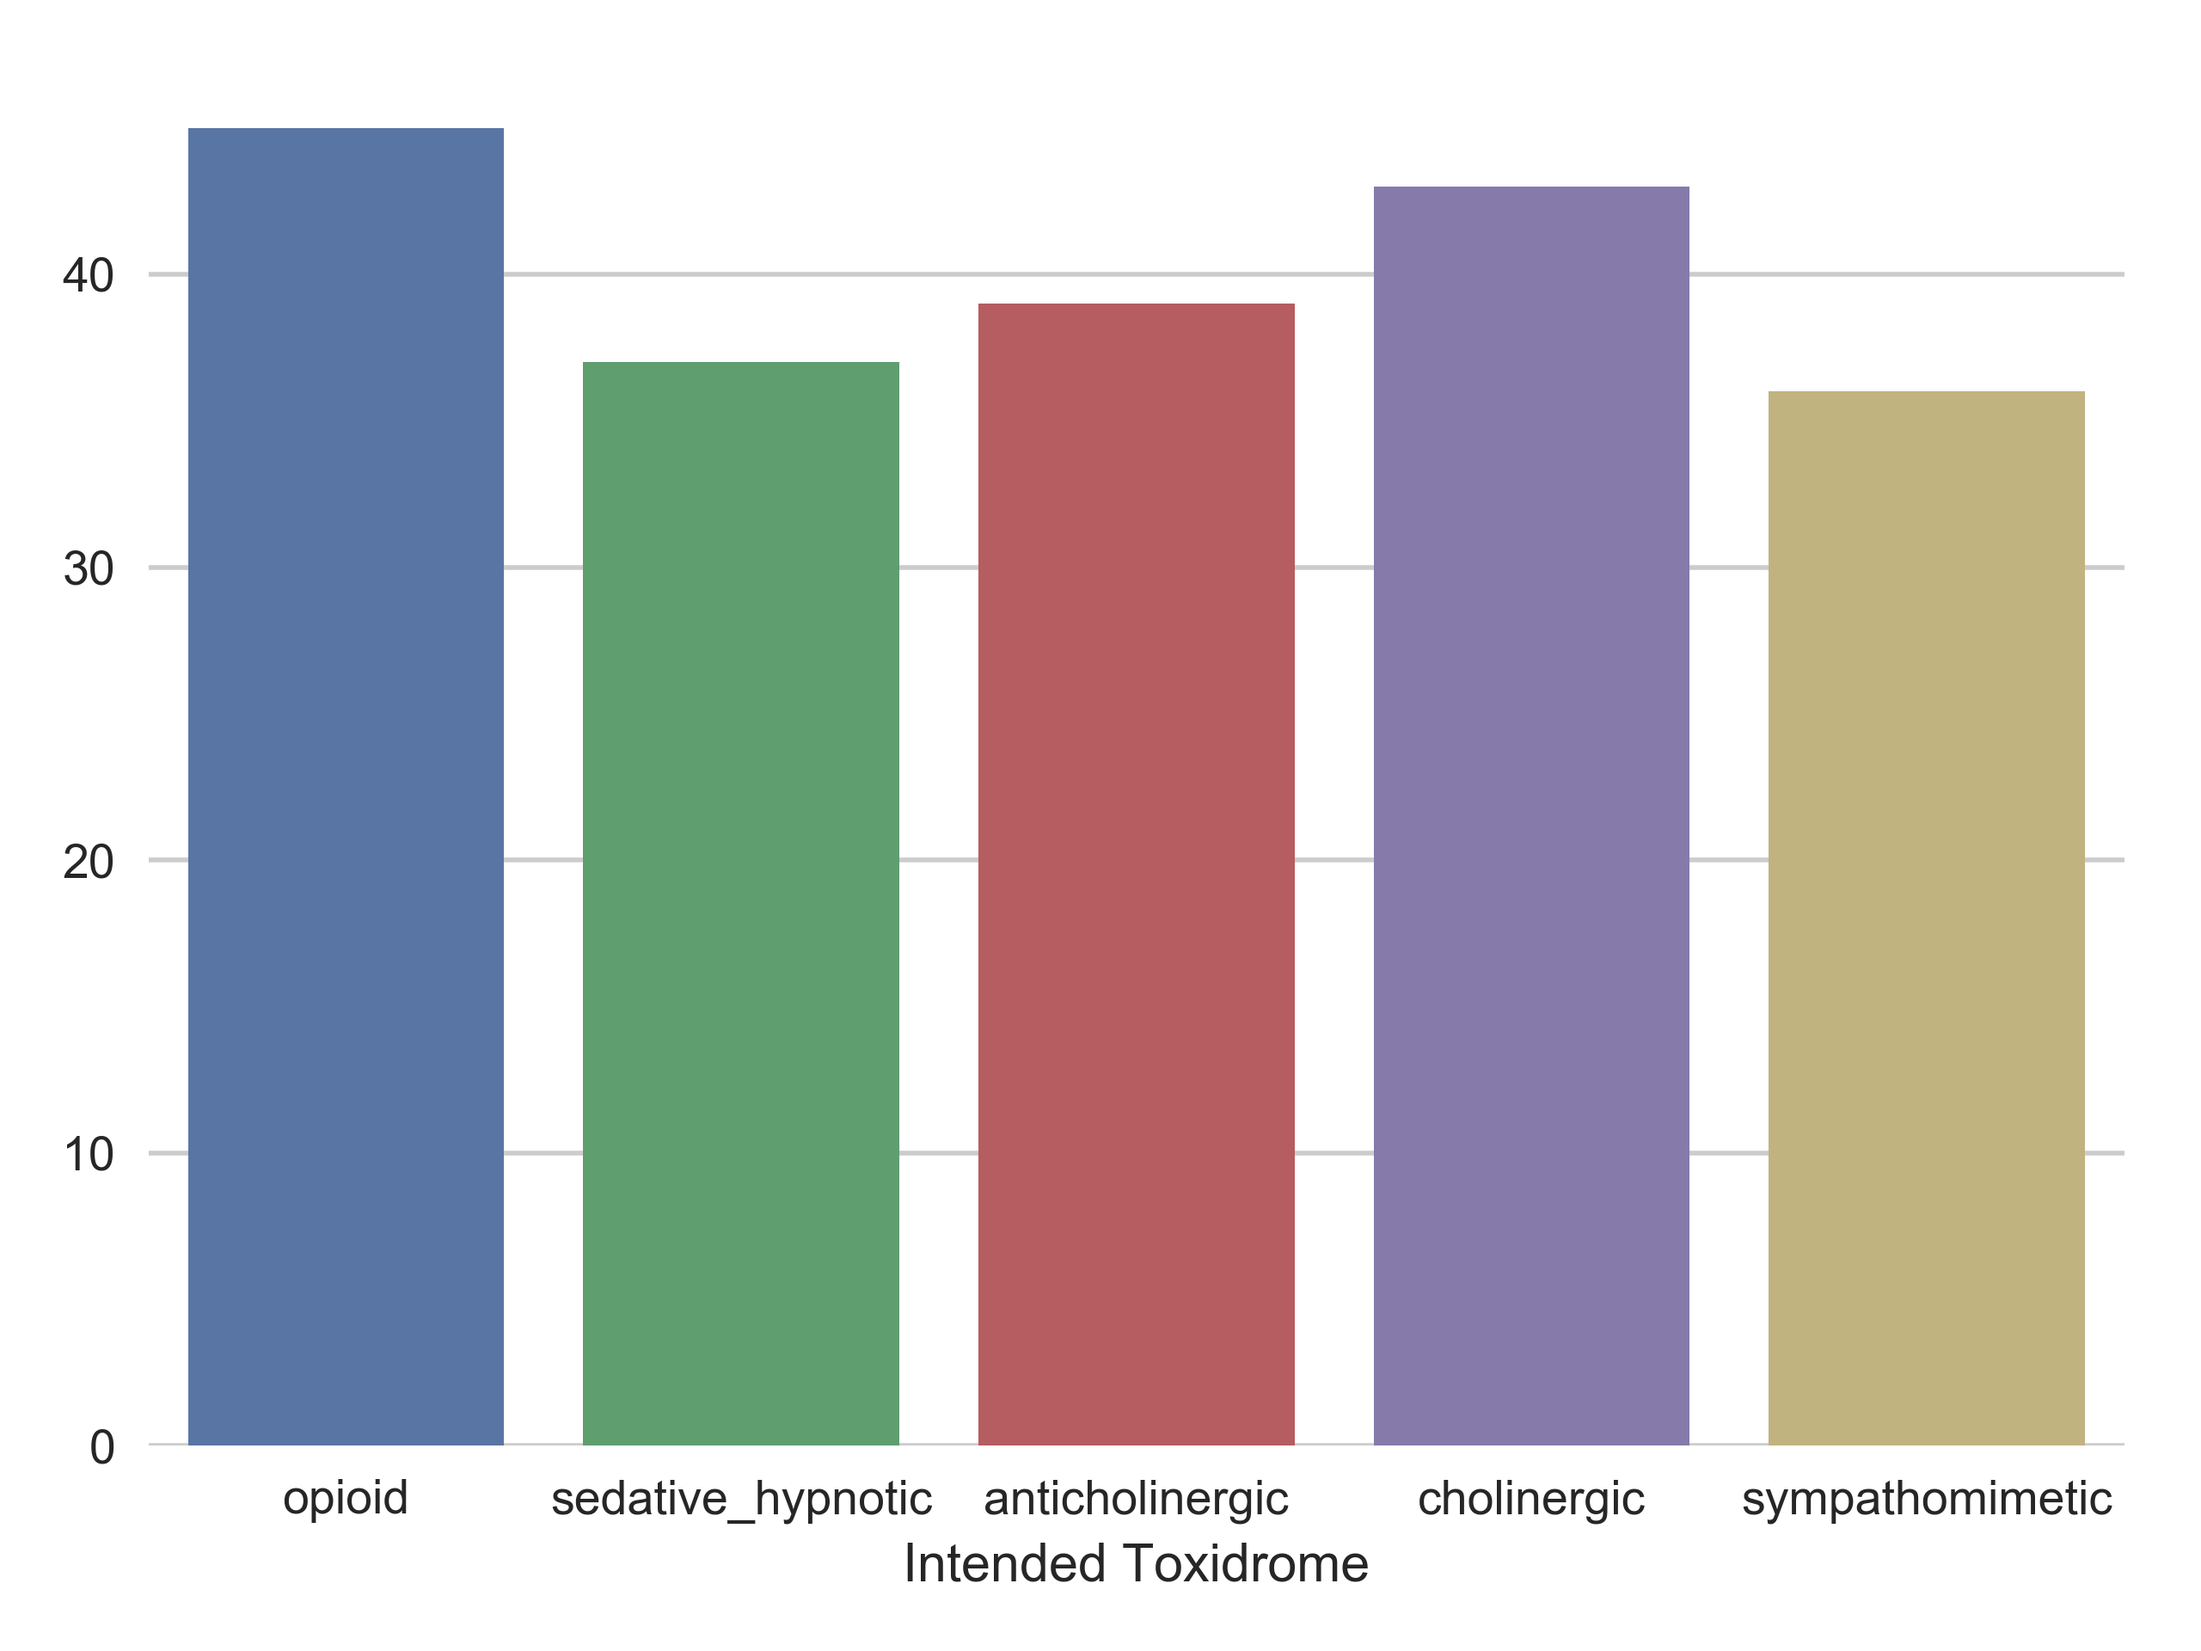
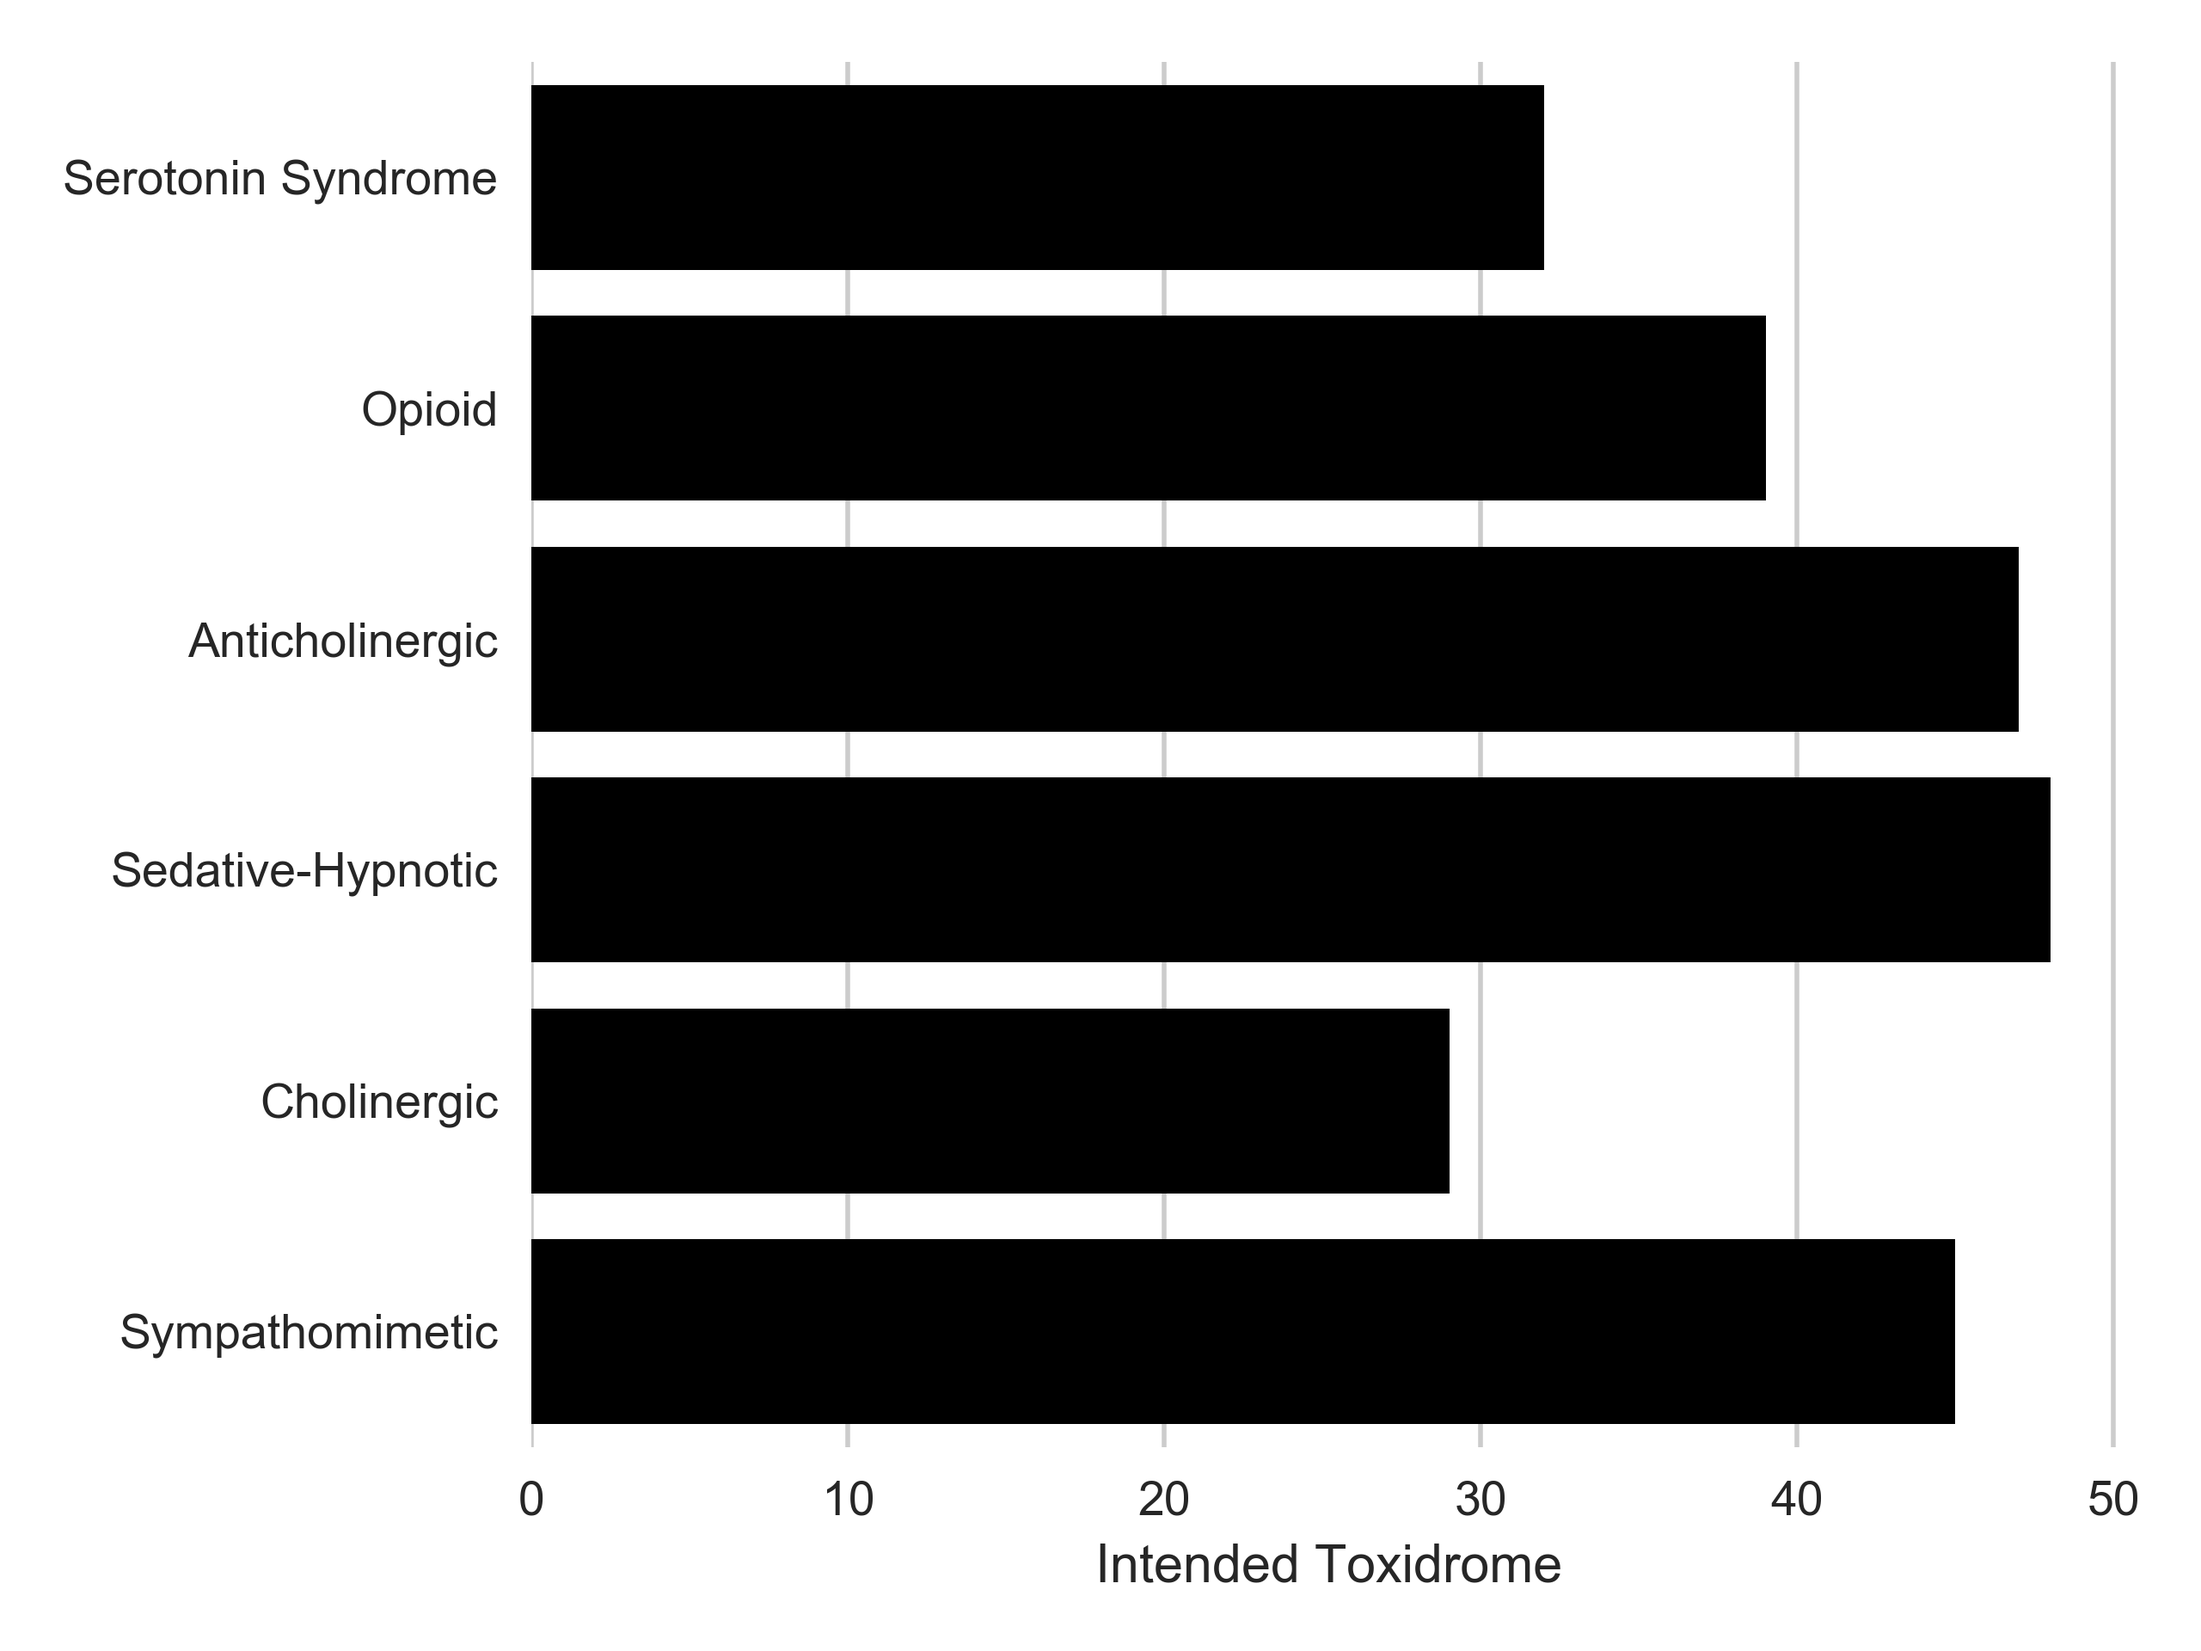
Update Graphics
Removed color.
Changed from horizontal to vertical.

diff --git a/plot-distribution-of-cases.py b/plot-distribution-of-cases.py
@@ -10,21 +10,22 @@ sns.set(style="whitegrid")
 fig = plt.figure()
 ax = fig.add_subplot(111)
 
-sns.countplot(x="intended_toxidrome", data=df)
+sns.countplot(y="intended_toxidrome", data=df, color='k')
 sns.despine(left=True, bottom=True)
 
 ax.set_ylabel("")
 ax.set_xlabel("Intended Toxidrome")
 
-a=[item.get_text() for item in ax.get_xticklabels()]
-conversion = {'sympathomimetic': "sympathomimetic",
-				'sedative_hypnotic': "sedative/hypnotic",
-				'cholinergic':"cholinergic",
-				'anticholinergic':"anticholinergic",
-				'opioid':"opioid"}
+a=[item.get_text() for item in ax.get_yticklabels()]
+conversion = {'sympathomimetic': "Sympathomimetic",
+				'sedative_hypnotic': "Sedative-Hypnotic",
+				'cholinergic':"Cholinergic",
+				'anticholinergic':"Anticholinergic",
+				'opioid':"Opioid",
+				"serotonin_syndrome":"Serotonin Syndrome"}
 
 new_ticklabels = [conversion[label] for label in a]
-ax.set_xticklabels(a)
+ax.set_yticklabels(new_ticklabels)
 
 plt.tight_layout()
 plt.savefig("./intended-toxidrome-distribution.png",dpi=400)
